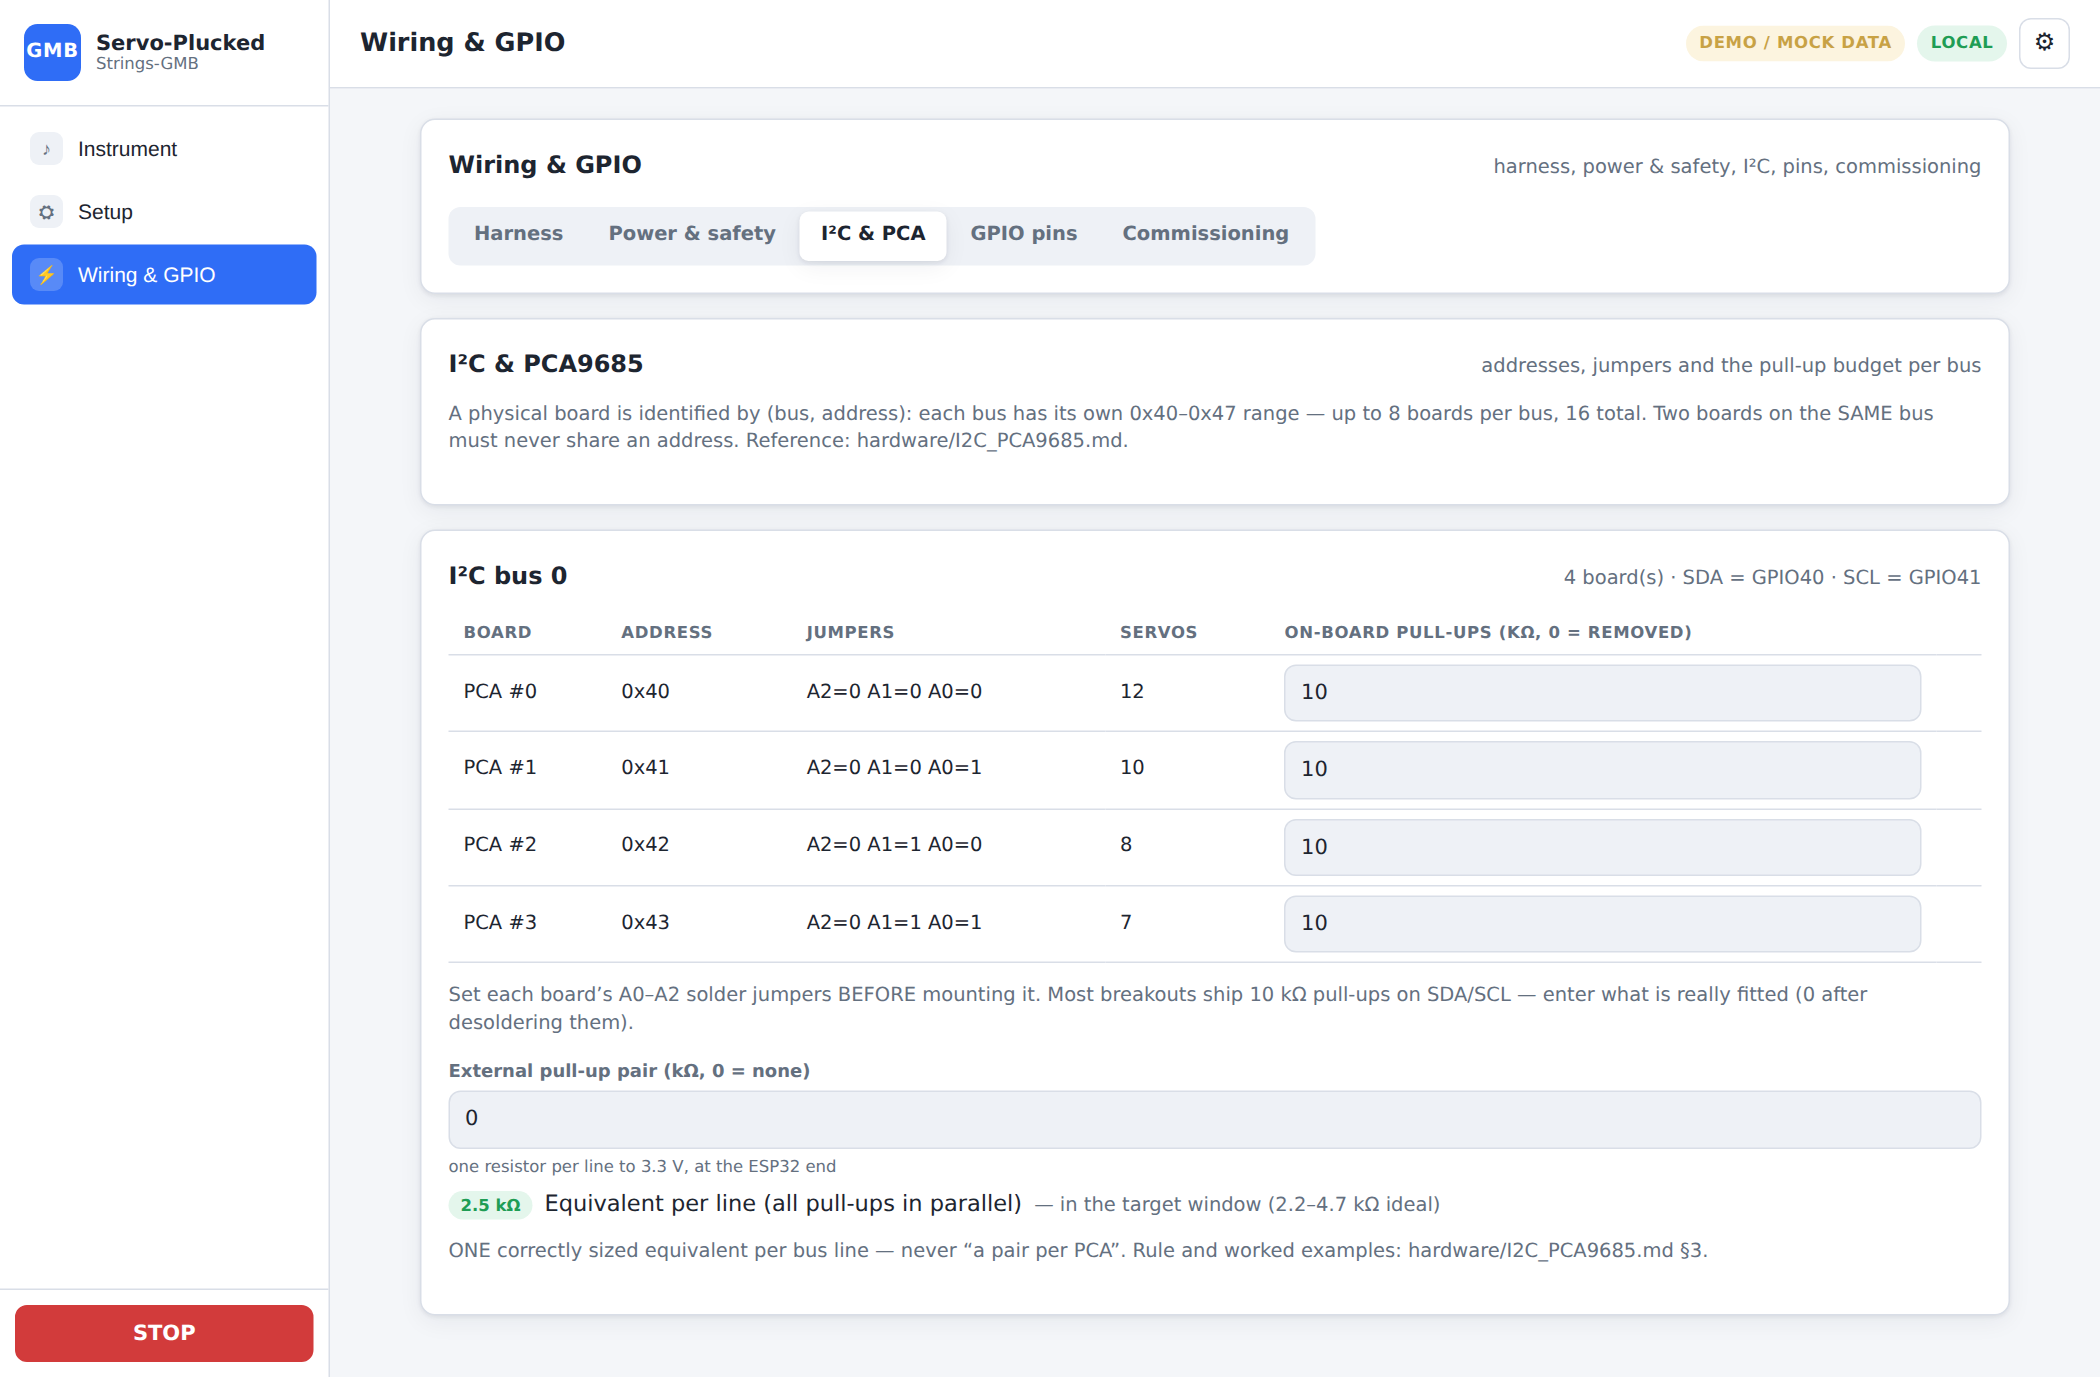
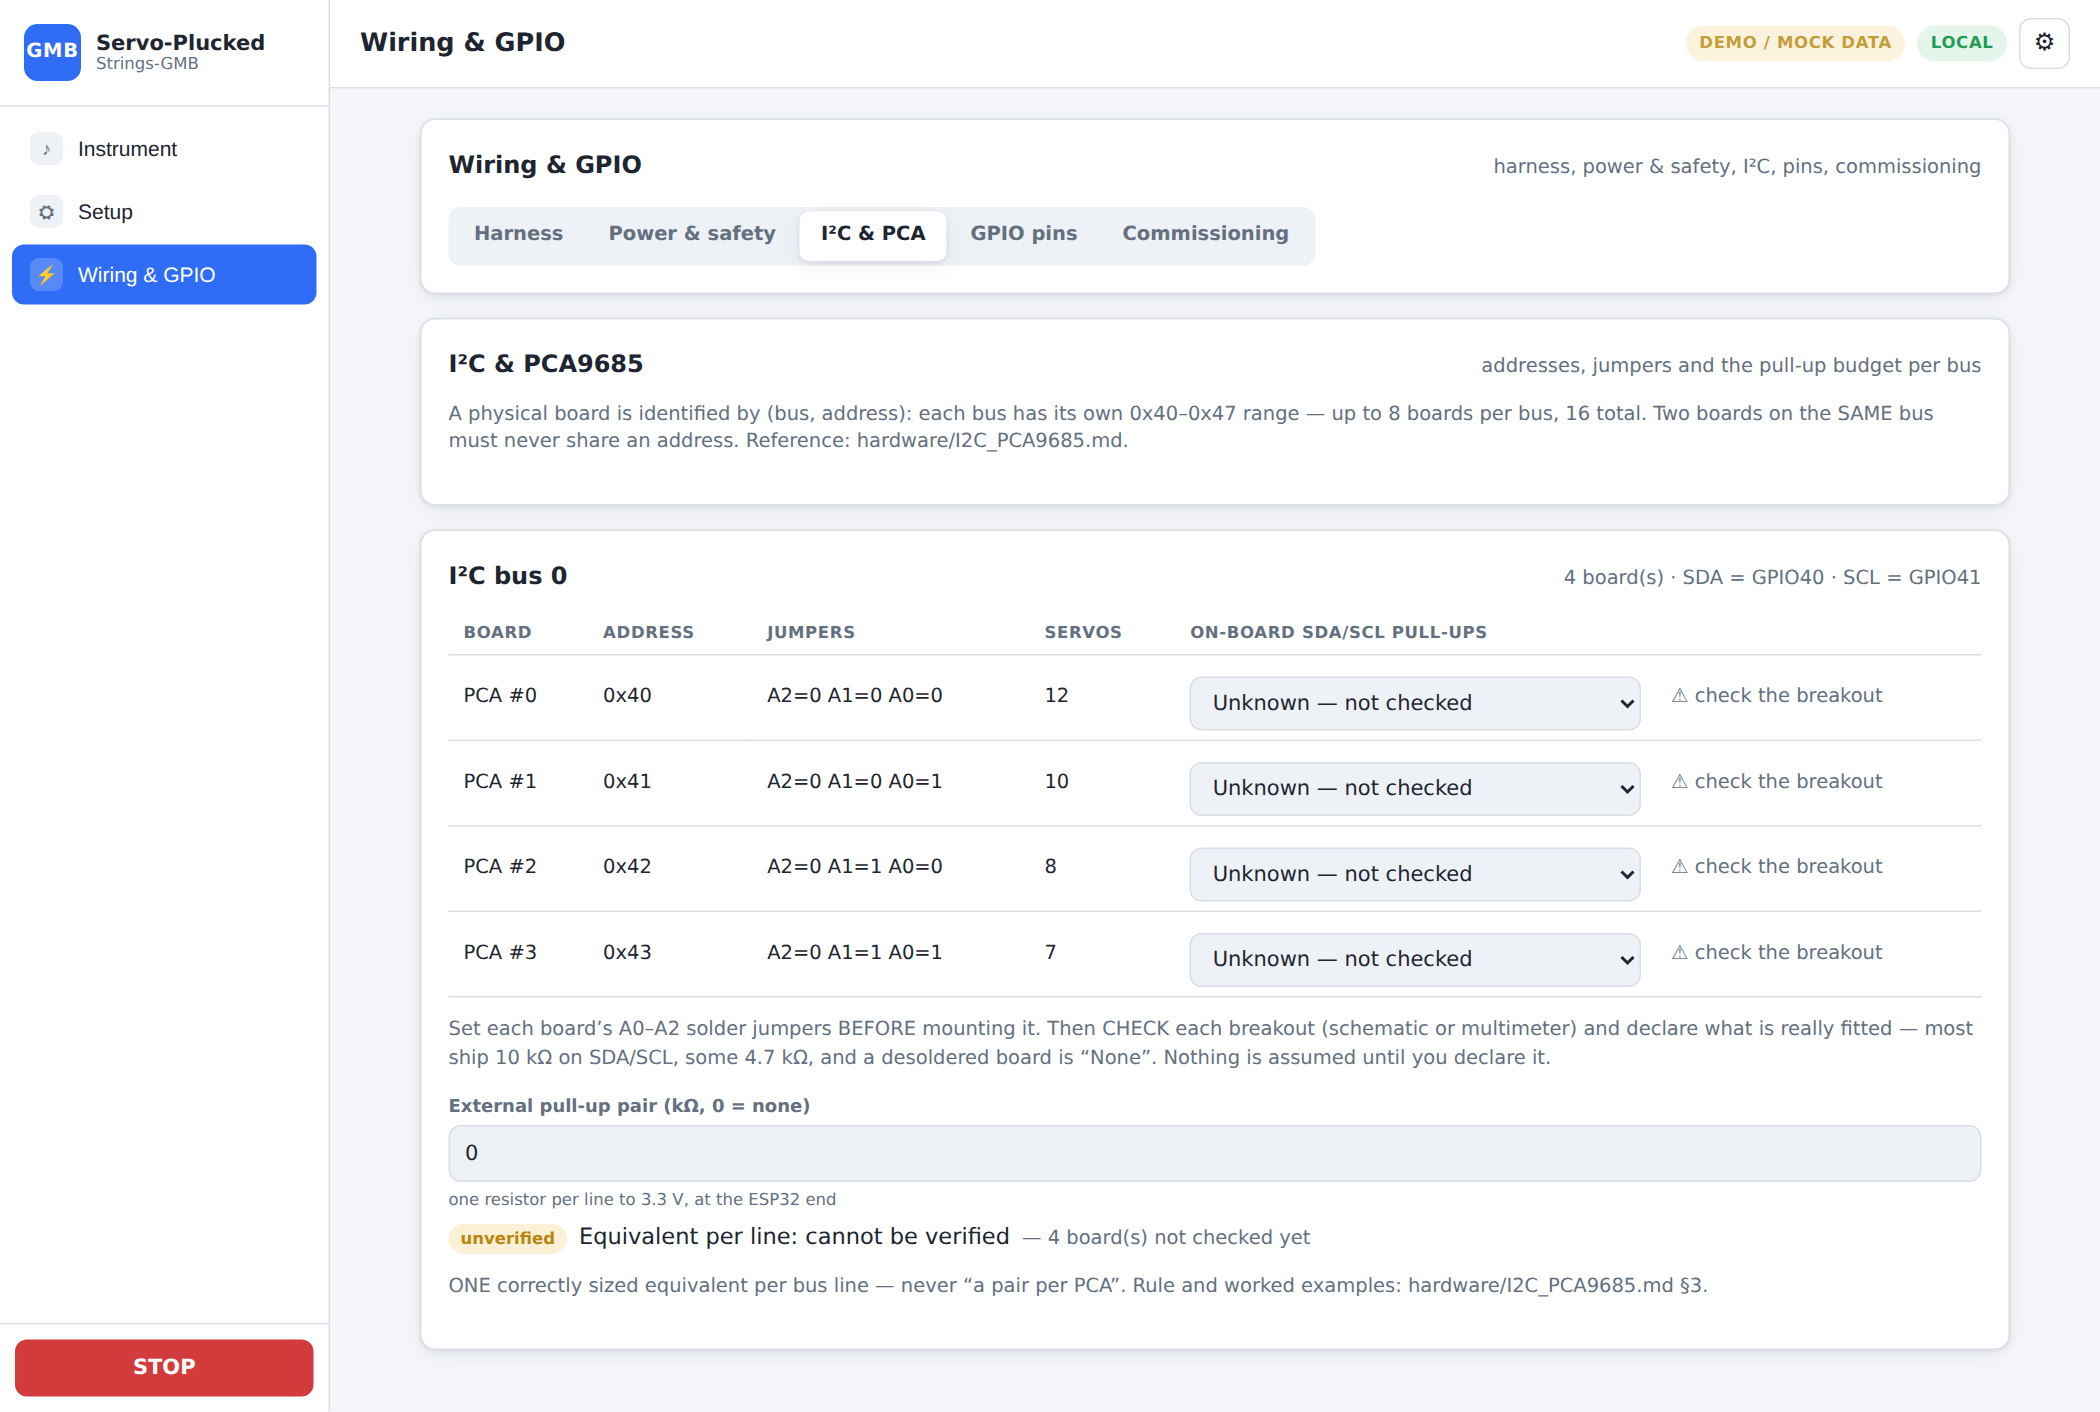
Re-shoot the four screens the audit fixes changed, align the docs text
PR #41 photographed the interface and described it just before the audit fixes
landed, so four screens and their prose were stale after the merge:

- wiring-power: the estimator now shows the governed AND absolute peaks, plus
  the S1 master-switch declaration;
- wiring-i2c: boards start "unknown — not checked" and the equivalent reads
  "cannot be verified" until each breakout is declared;
- commissioning: a blocked stage's boxes are disabled, with an explicit
  "Unlock this stage anyway" override;
- pins: the mock now mirrors the firmware pin policy (S3 GPIO3/45/46 reserved,
  not caution), which changes the GPIO map colours.

Re-shot with the repo's own web-interface/tools/screenshots.js so the images
stay consistent with the rest of the set; the other screenshots are untouched.
README.md, README_EN.md, docs/WEB_INTERFACE.md and web-interface/README.md now
describe the two-figure sizing rule (wiring/PSU on the absolute peak, fuse
above the governed one), the unknown-by-default pull-up budget and the real
commissioning gates.

Claude-Session: https://claude.ai/code/session_01HkbbaS9Gpkker8fpWL5ka1

diff --git a/docs/WEB_INTERFACE.md b/docs/WEB_INTERFACE.md
@@ -163,27 +163,36 @@ each board's worst-case simultaneous starts (which the Timing step's per-board c
 **Power & safety** — the reference circuit of `hardware/POWER_AND_SAFETY.md` applied
 live to the instrument: a **Safety chain** card mixing derived facts (`/OE` GPIO,
 hardware E-stop + contact wiring) with the **fitted-on-the-machine declarations**
-(`/OE` pull-up, gated enable stage, E-stop contactor, main + branch fuses — stored in
-the profile's `hardware` block, documentation-only); a **power tree** SVG (PSU → main
-fuse → master switch → E-stop contactor → star distribution → fused branch + bulk cap
-per PCA → `/OE` bus and E-stop contacts) where **undeclared elements draw dashed**;
-and a **Current & supply estimator**: from fleet-typical idle/moving/stall currents
-and the governor caps it derives per-branch worst case, a fuse guide, a bulk-cap
-suggestion (C ≈ I·Δt/ΔV with editable Δt/ΔV), the PSU requirement, and a wire
-voltage-drop calculator.
+(`/OE` pull-up, gated enable stage, E-stop contactor, master switch, main + branch
+fuses — stored in the profile's `hardware` block, documentation-only); a **power tree**
+SVG (PSU → main fuse → master switch → E-stop contactor → star distribution → fused
+branch + bulk cap per PCA → `/OE` bus and E-stop contacts) where **undeclared elements
+draw dashed**; and a **Current & supply estimator** built on fleet-typical
+idle/moving/stall currents. It reports **two figures per branch**: the *governed
+peak* (what normal play and the governed arming park draw, under the Timing step's
+caps) and the *absolute peak* (every servo of the branch at stall). The governor is
+software, so the **wiring and the PSU are sized on the absolute figure** and the fuse
+sits comfortably above the governed one and at/below the wiring's ampacity; the
+bulk-cap suggestion (C ≈ I·Δt/ΔV, editable Δt/ΔV) follows the governed starts, and the
+wire voltage-drop check runs on the absolute peak. The direct-GPIO rail is only
+bounded by the global cap, matching the runtime.
 <p align="center"><img src="../img/screenshots/wiring-power.png" alt="Wiring & GPIO — Power & safety sub-tab" width="100%"/></p>
 
 **I²C & PCA** — per bus: SDA/SCL pins, every board with its address and **A0–A2
-solder-jumper setting**, and the **pull-up budget**: declare each breakout's on-board
-pull-ups (0 = removed) plus an optional external pair, and the page computes the
-**equivalent per line** (parallel resistors add) and grades it against the target
-window (one equivalent 2.2–4.7 kΩ per bus line — `hardware/I2C_PCA9685.md` §3).
+solder-jumper setting**, and the **pull-up budget**. Each board starts as **unknown —
+not checked**: the page never assumes what a breakout carries, so the bus reads
+*"equivalent per line: cannot be verified"* until you have looked at each board and
+declared what is fitted (a value, or *none/removed*), plus an optional external pair.
+With everything declared it computes the **equivalent per line** (parallel resistors
+add) and grades it against the target window (one equivalent 2.2–4.7 kΩ per bus line —
+`hardware/I2C_PCA9685.md` §3).
 <p align="center"><img src="../img/screenshots/wiring-i2c.png" alt="Wiring & GPIO — I²C &amp; PCA sub-tab" width="100%"/></p>
 
 **Commissioning** — the staged power-up checklist of `hardware/COMMISSIONING.md`
 (stage gates, E-stop tests, per-branch bring-up) with per-instrument progress kept
-in the browser. Each stage is a **gate**: it stays greyed out (*blocked by the
-previous gate*) until every box of the stage before it is ticked.
+in the browser. Each stage is a real **gate**: its boxes stay **disabled** (*blocked by
+the previous gate*) until every box of the stage before it is ticked — a deliberate
+out-of-order check needs the explicit *Unlock this stage anyway* button.
 <p align="center"><img src="../img/screenshots/commissioning.png" alt="Wiring & GPIO — Commissioning sub-tab" width="100%"/></p>
 
 **GPIO pins** — the board GPIO map + per-signal assignment with a **graphical board pinout** that

diff --git a/README.md b/README.md
@@ -141,10 +141,10 @@ le timing, puis on teste et on enregistre.
 | Onglet | Contenu |
 |--------|---------|
 | **Harness** | le faisceau ESP32 + PCA9685 de l'instrument courant (un ou deux bus I²C, adresses, corde·rôle par broche, contrôles de conflit en direct, export SVG) + les conseils de **câblage de puissance** (étoile, condensateur de réservoir par carte, 100 nF, `/OE` fail-safe) |
-| **Power & safety** | la chaîne de sécurité déclarée (pull-up `/OE`, étage d'autorisation, contacteur d'arrêt d'urgence, fusibles), l'**arbre de puissance** en SVG (les éléments non déclarés en pointillés) et l'**estimateur de courant** : pire cas par branche, calibre de fusible, condensateur, alimentation, chute en ligne |
-| **I²C & PCA** | adresse et **cavaliers A0–A2** de chaque carte, et le **budget de pull-ups** du bus (une résistance équivalente de 2,2–4,7 kΩ par ligne) |
+| **Power & safety** | la chaîne de sécurité déclarée (pull-up `/OE`, étage d'autorisation, contacteur d'arrêt d'urgence, interrupteur général, fusibles), l'**arbre de puissance** en SVG (les éléments non déclarés en pointillés) et l'**estimateur de courant** : pic **gouverné** (sous les limites de courant) *et* pic **absolu** (tous les servos calés) par branche, calibre de fusible, condensateur, alimentation, chute en ligne — le câblage et l'alimentation se dimensionnent sur l'absolu, le governor étant logiciel |
+| **I²C & PCA** | adresse et **cavaliers A0–A2** de chaque carte, et le **budget de pull-ups** du bus : rien n'est supposé — une carte reste *inconnue* tant que vous n'avez pas déclaré ce qui est monté, puis la **résistance équivalente par ligne** est évaluée (cible 2,2–4,7 kΩ) |
 | **GPIO pins** | l'assignation des broches et le **brochage graphique** de la carte ESP32 choisie (S3-DevKitC-1 v1.0 / v1.1, WROOM-32, DevKit v1) avec les broches utilisées surlignées, plus la déclaration de l'**arrêt d'urgence matériel** (câblage NC recommandé + broche `ESTOP`) |
-| **Commissioning** | la **check-list de mise sous tension** par étapes (chaque étape est une barrière), avec l'avancement mémorisé par instrument dans le navigateur |
+| **Commissioning** | la **check-list de mise sous tension** par étapes (chaque étape est une vraie barrière : les cases de l'étape suivante restent désactivées tant que la précédente n'est pas complète, avec déverrouillage explicite), avec l'avancement mémorisé par instrument dans le navigateur |
 
 <p align="center"><img src="img/screenshots/wiring.png" alt="Carte de câblage ESP32 + PCA9685" width="90%"/></p>
 <p align="center"><img src="img/screenshots/wiring-power.png" alt="Puissance & sécurité — arbre de puissance et estimateur" width="90%"/></p>

diff --git a/README_EN.md b/README_EN.md
@@ -138,10 +138,10 @@ angles + rotation direction), set its MIDI behaviour and timing, then test and s
 | Sub-tab | Content |
 |---------|---------|
 | **Harness** | the current instrument's ESP32 + PCA9685 harness (one or two I²C buses, addresses, per-pin string·role, live conflict checks, SVG export) plus the **power-wiring** advice (star wiring, one bulk cap per board, 100 nF ceramic, fail-safe `/OE`) |
-| **Power & safety** | the declared safety chain (`/OE` pull-up, gated enable stage, E-stop contactor, fuses), the **power tree** as SVG (undeclared parts drawn dashed) and the **current estimator**: per-branch worst case, fuse guide, bulk cap, PSU requirement, wire voltage drop |
-| **I²C & PCA** | each board's address and **A0–A2 jumpers**, and the bus **pull-up budget** (one equivalent 2.2–4.7 kΩ per line) |
+| **Power & safety** | the declared safety chain (`/OE` pull-up, gated enable stage, E-stop contactor, master switch, fuses), the **power tree** as SVG (undeclared parts drawn dashed) and the **current estimator**: per-branch **governed** peak (under the power caps) *and* **absolute** peak (all servos at stall), fuse guide, bulk cap, PSU requirement, wire voltage drop — wiring and PSU sized on the absolute figure, since the governor is software |
+| **I²C & PCA** | each board's address and **A0–A2 jumpers**, and the bus **pull-up budget**: nothing is assumed — a board stays *unknown* until you declare what is fitted, then the **equivalent per line** is graded (target 2.2–4.7 kΩ) |
 | **GPIO pins** | pin assignment and the **graphical pinout** of the chosen ESP32 board (S3-DevKitC-1 v1.0 / v1.1, WROOM-32, DevKit v1) with the used pins highlighted, plus the **hardware E-stop** declaration (NC wiring recommended + its `ESTOP` pin) |
-| **Commissioning** | the staged **power-up checklist** (each stage is a gate), progress kept per instrument in the browser |
+| **Commissioning** | the staged **power-up checklist** (each stage is a real gate — the next stage's boxes stay disabled until the previous one is complete, with an explicit override), progress kept per instrument in the browser |
 
 <p align="center"><img src="img/screenshots/wiring.png" alt="ESP32 + PCA9685 wiring map" width="90%"/></p>
 <p align="center"><img src="img/screenshots/wiring-power.png" alt="Power &amp; safety — power tree and current estimator" width="90%"/></p>

diff --git a/web-interface/README.md b/web-interface/README.md
@@ -304,12 +304,16 @@ diagram scrolls horizontally on narrow screens.
 
 The three sibling sub-tabs go further: **Power & safety** turns
 `hardware/POWER_AND_SAFETY.md` into a live checklist (what is fitted on the machine),
-a power-tree SVG where undeclared parts draw dashed, and an estimator that sizes
-fuses, bulk caps, the PSU and the wire section from the governor caps; **I²C & PCA**
-shows each board's address, its A0–A2 jumper pattern and the bus **pull-up budget**
-(one equivalent 2.2–4.7 kΩ per line); **Commissioning** walks
-`hardware/COMMISSIONING.md`'s staged power-up gates, progress stored per instrument
-in the browser (bench state — it is not part of the profile).
+a power-tree SVG where undeclared parts draw dashed, and an estimator that reports the
+**governed** peak (under the power caps) next to the **absolute** peak (all servos at
+stall) per branch — wiring and PSU are sized on the absolute one, the fuse sits above
+the governed one, and the bulk cap follows the governed starts; **I²C & PCA** shows
+each board's address, its A0–A2 jumper pattern and the bus **pull-up budget**, where
+a board stays *unknown* (nothing assumed, equivalent "cannot be verified") until you
+declare what is physically fitted; **Commissioning** walks
+`hardware/COMMISSIONING.md`'s staged power-up gates — a blocked stage's boxes are
+disabled until the previous gate passes, with an explicit override — progress stored
+per instrument in the browser (bench state — it is not part of the profile).
 
 ## Testing one servo or a whole group
 
